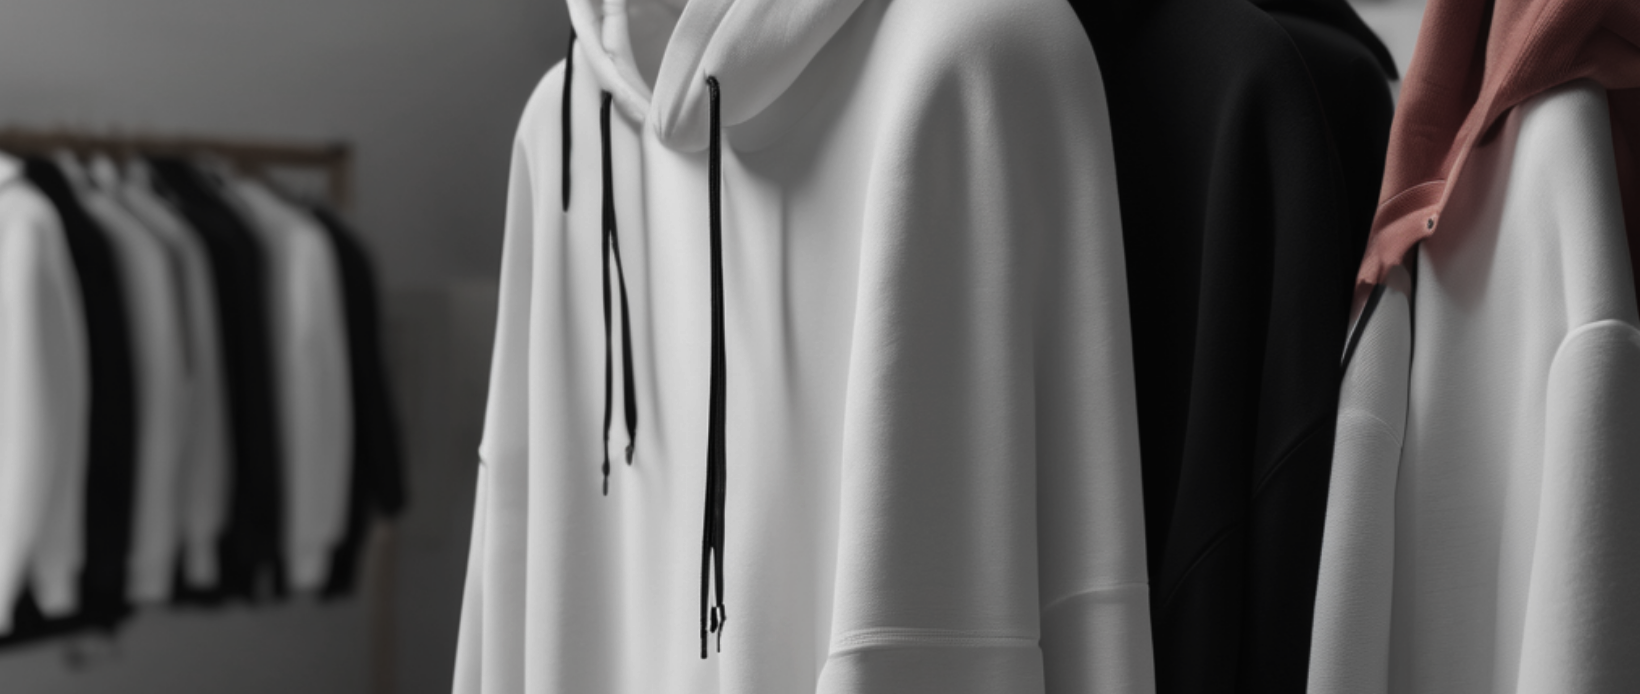
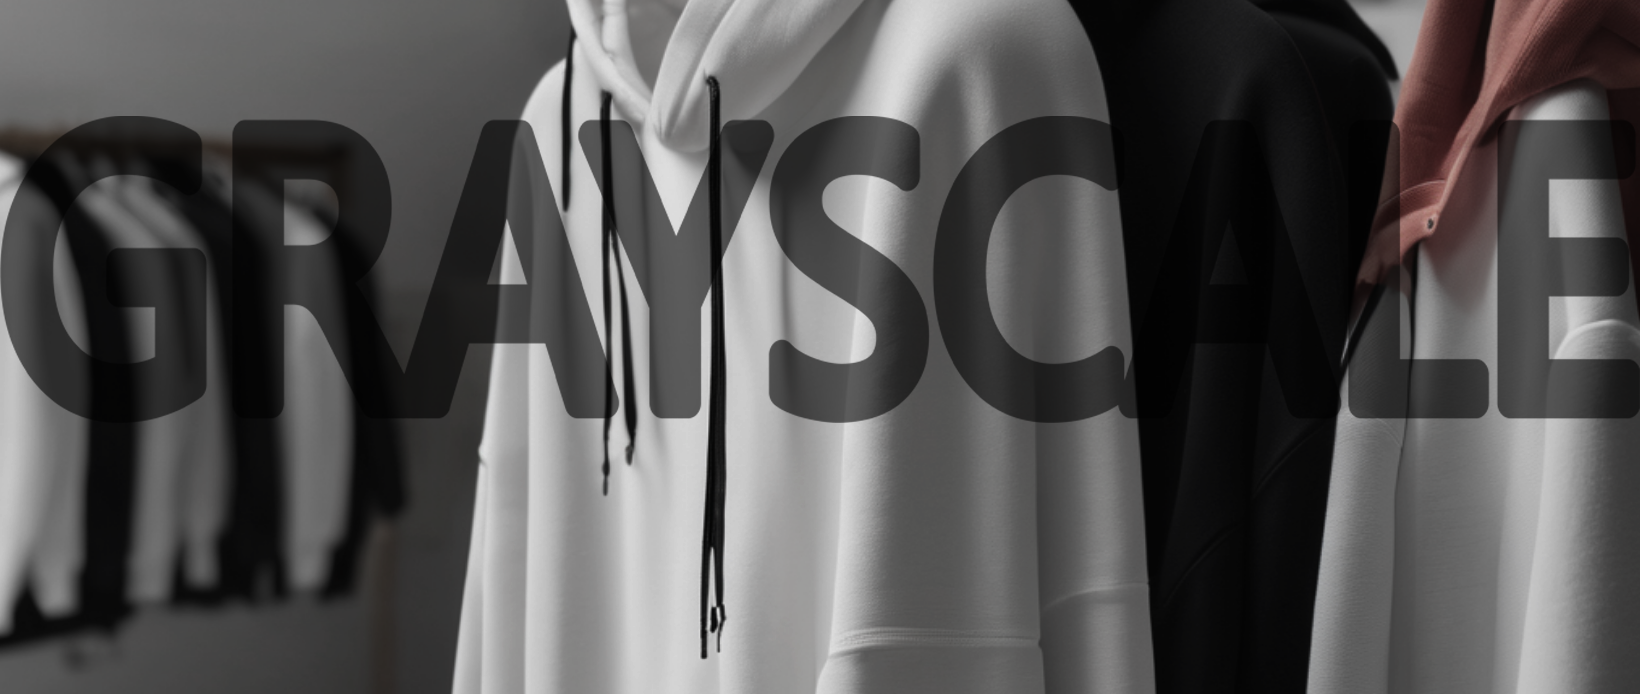
update responsiveness

Changed region(s): [[0.0, 0.1513, 0.7152, 0.6354], [0.8085, 0.1513, 1.0, 0.6052]]

diff --git a/src/Components/Header/Header.js b/src/Components/Header/Header.js
@@ -5,7 +5,6 @@ function Header(){
     return(
         <div className="headerOuter">
             <div className="headerInner">
-                <img src="assests/images/GRAYSCALE.svg" className="grayScaleLogo"/>
                 <img src="assests/images/headerPicture.png" className="backgroundPicture"/>
                 <div className="newColllection">
                     <h3 className="newCollectionHeading">NEW COLLECTION AVAILABLE</h3>
